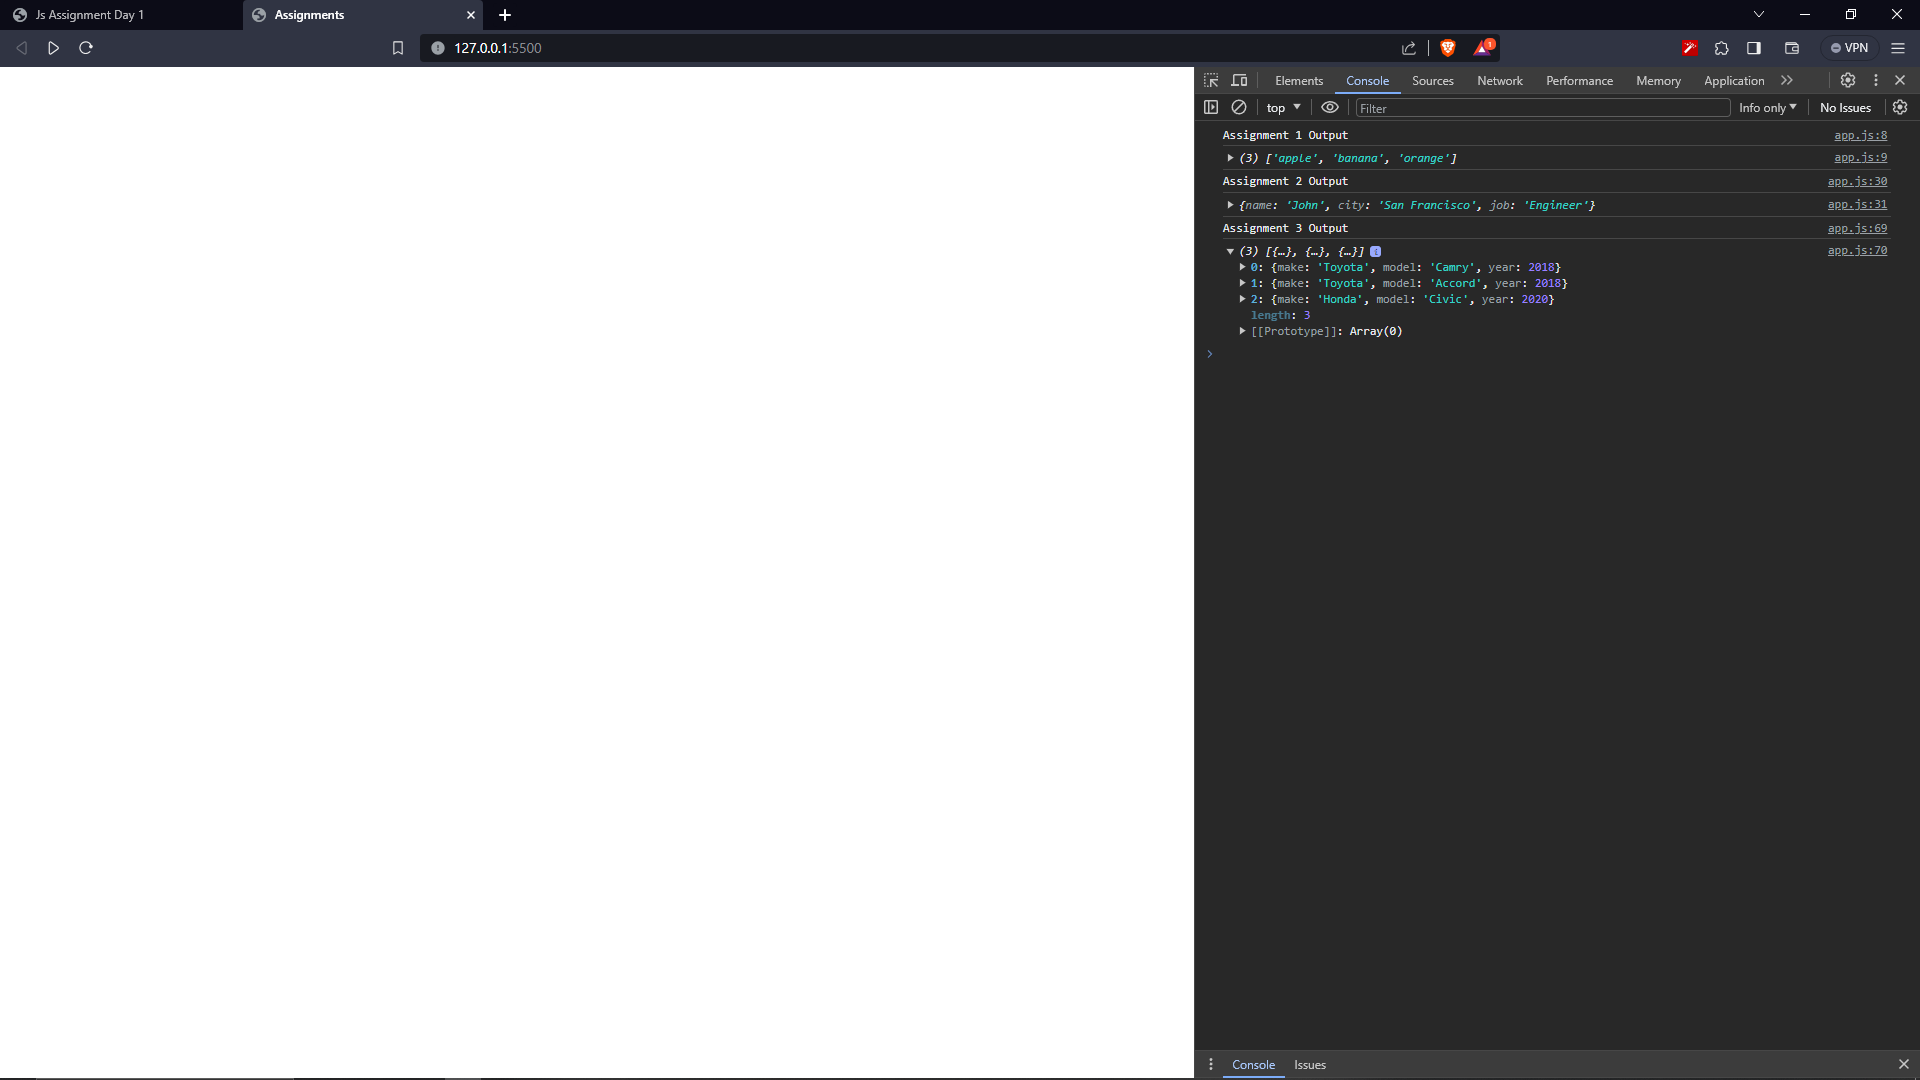
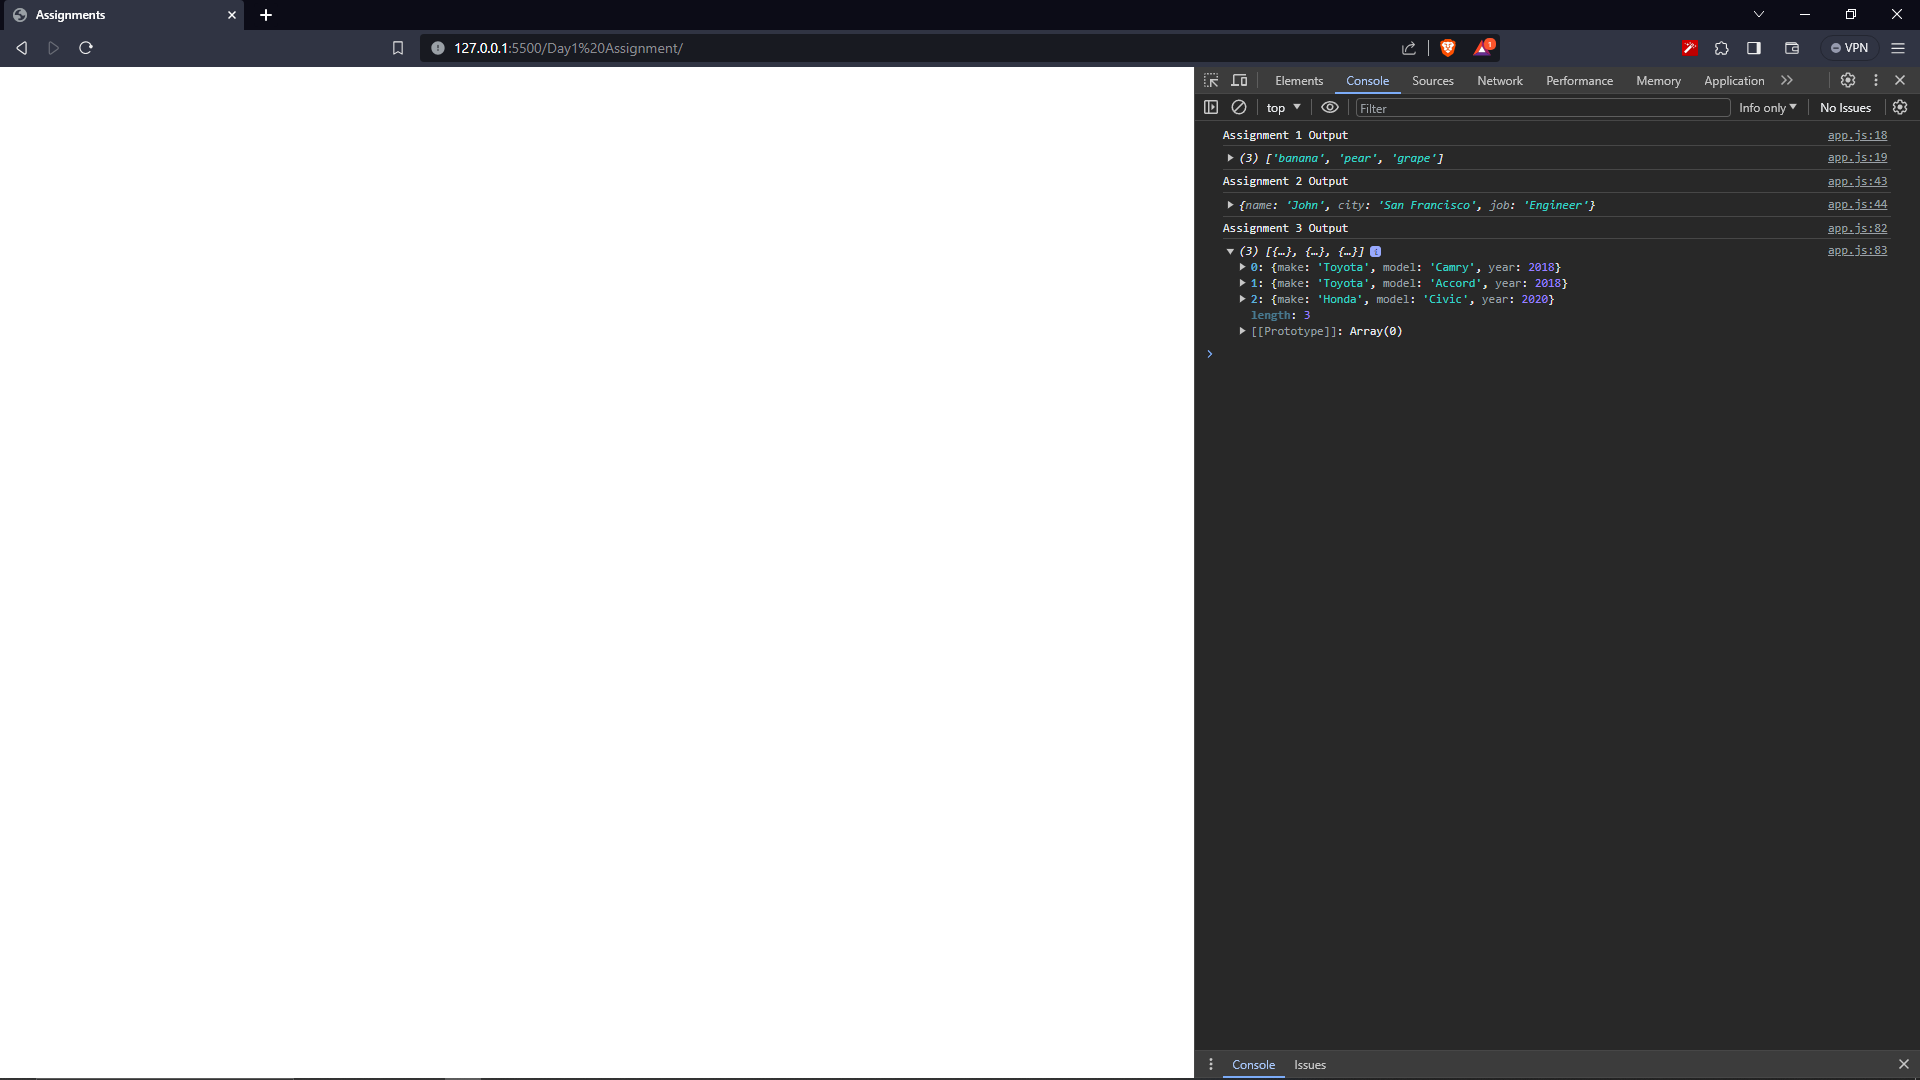
Day 1 Assignment

diff --git a/app.js b/app.js
@@ -4,6 +4,16 @@
 let fruits = []
 //Using .push() method to append to the array/object
 fruits.push("apple", "banana", "orange")
+
+//Removing the first fruit from the array
+fruits.splice(0, 1);
+
+//Adding grape to the end of the array
+fruits.push("grape");
+
+//Updating the second fruit in the array to pear
+fruits[1] = "pear";
+
 //Printing the result on the console
 console.log("Assignment 1 Output")
 console.log(fruits)
